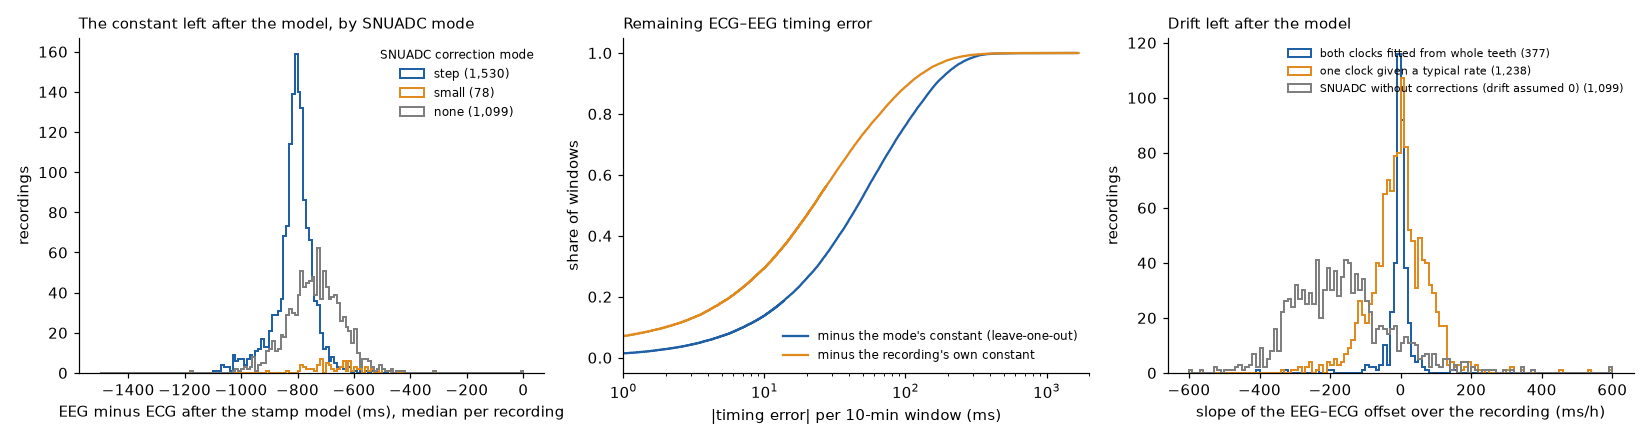
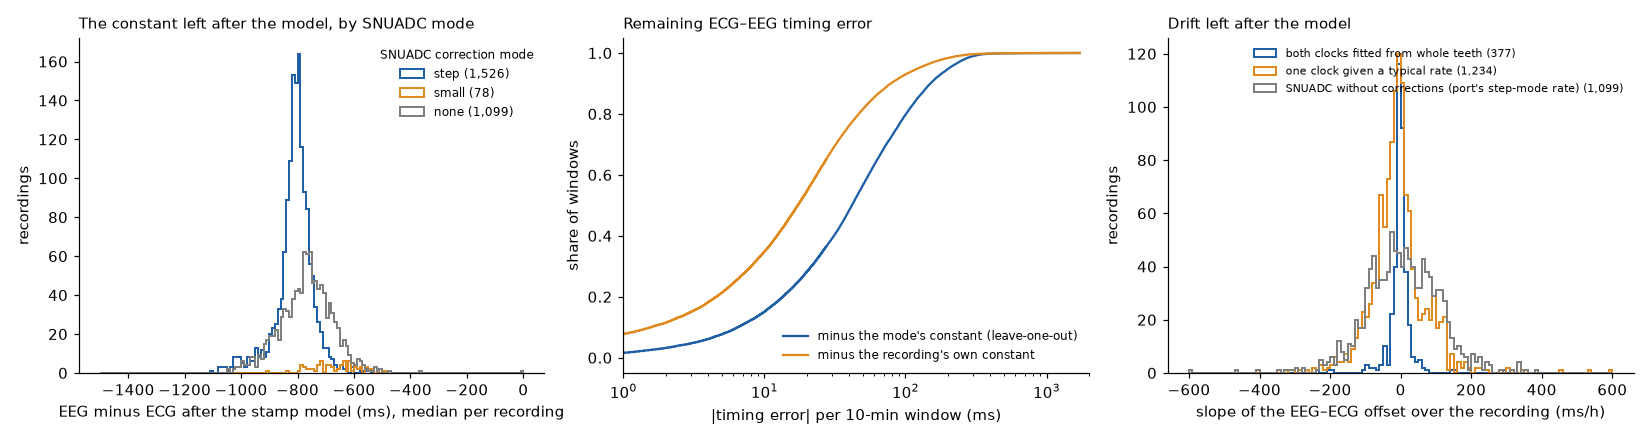
Worked examples (PPV by breath, regression with rounding), data and licence page, release build, model3 results
New example pages: ppv-by-breath (the Primus sits a median 1.8 s off the SNUADC; alignment changes half of all breaths' PPV but not recordings' medians) and regression-with-rounding (draft), with figures and references (Rubin, Cole, Carroll, KDIGO, Michard).
New page Data and licence (VitalDB CC BY 4.0; atlas text and figures CC BY 4.0; code MIT), linked from the About menu, the home page, the footer and Contributing.
Engine: --release flag for the public build (repositories that are not public are shown as not yet released, without links), with a test.
SNUADC stamp sawtooth study: model2 and model3 results (recordings without a SNUADC or BIS correction given their port's rate), updated figure, and why a per-recording rate cannot come from the stamps.

Note: commit 341f0cd also included the full-release burst validation (snuadc-stamp-sawtooth study, burst-validation-full figure), the correction-schedule link, clock and continuity updates, the recording-pauses 5-hour timer, and the BIS/SNUADC parameters moved to full-release values (bis-rate 25 ppm, snuadc-step-rate −63 ppm, snuadc-step-period 2.08 h).

diff --git a/metrology_atlas/site.py b/metrology_atlas/site.py
@@ -117,7 +117,8 @@ class Site:
         for name, paths in groups.items():
             sw = self.ds.get("software", name) or {}
             files = ", ".join(self.code_link(f"{name}/{p}") for p in paths if p)
-            where = "" if sw.get("repo") else " (not published)"
+            where = "" if sw.get("repo") else (" (not yet released)" if sw.get("visibility") == "not yet released"
+                                               else " (not published)")
             out.append(f"- **{self.a('software', name)}**{where}" + (f": {files}" if files else ""))
         return "\n".join(out)
 
@@ -1017,6 +1018,9 @@ class Site:
         if w.get("visibility") == "private":
             note = ('!!! info "Private repository"\n    Links into this repository work only for people who have been '
                     "given access to it.\n\n")
+        elif w.get("visibility") == "not yet released":
+            note = ('!!! info "Not yet released"\n    This repository will be made public later; until then its '
+                    "paths are shown, not linked.\n\n")
         elif not w.get("repo"):
             note = ('!!! info "Not published"\n    This code is kept on the analysis machine; paths are shown, '
                     "not linked.\n\n")
@@ -1041,7 +1045,8 @@ class Site:
         mentions = [m.split(":", 1) for m in r.get("mentioned_in") or []]
         mentions = "\n".join(f"- {KINDS[k].title[:-1] if KINDS[k].title.endswith('s') else KINDS[k].title}: "
                              f"{self.a(k, x)}" for k, x in sorted(mentions, key=lambda m: (m[0], m[1])))
-        repo = f"[{w['repo'].removeprefix('https://')}]({w['repo']})" if w.get("repo") else "not published"
+        repo = f"[{w['repo'].removeprefix('https://')}]({w['repo']})" if w.get("repo") else (
+            "not yet released" if w.get("visibility") == "not yet released" else "not published")
         body = (self.section("What it is", self.prose(w.get("description")))
                 + self.section("Its part in the atlas", self.prose(w.get("role")))
                 + self.section("Install", self.prose(w.get("install")))
@@ -1161,6 +1166,9 @@ class Site:
                     + "\n".join(f"- {self.ds.get('reference', r)['citation']}"
                                  + (f" doi:[{self.ds.get('reference', r)['doi']}](https://doi.org/{self.ds.get('reference', r)['doi']})"
                                     if self.ds.get('reference', r).get('doi') else "") for r in m["references"]) + "\n\n")
+            if any(pg["id"] == "data-and-licence" for pg in m.get("pages") or []):
+                out += ("The data's licence, what the atlas contains and how the atlas may be reused are on "
+                        "[Data and licence](data-and-licence.md).\n\n")
         heads = sorted(p for p, v in self.ds.items["parameter"].items() if v.get("headline"))
         if heads:
             out += "## Key numbers\n\n" + self.params_table(heads) + "\n"

diff --git a/metrology_atlas/__main__.py b/metrology_atlas/__main__.py
@@ -3,6 +3,7 @@
     python -m metrology_atlas check datasets/vitaldb
     python -m metrology_atlas json  datasets/vitaldb --out build/vitaldb.metrology.json
     python -m metrology_atlas site  datasets/vitaldb --out build/vitaldb      (then: zensical build in that folder)
+    add --release to json/site for the public build: links into repositories that are not public are left out
 """
 
 from __future__ import annotations
@@ -37,6 +38,9 @@ def main(argv: list[str] | None = None) -> int:
         p.add_argument("dataset")
         if name not in ("check", "todo"):
             p.add_argument("--out", required=True)
+        if name in ("json", "site"):
+            p.add_argument("--release", action="store_true",
+                           help="public build: software that is not public is shown as not yet released, unlinked")
     a = ap.parse_args(argv)
     try:
         ds = load(a.dataset)
@@ -45,6 +49,11 @@ def main(argv: list[str] | None = None) -> int:
         return 1
     for w in ds.warnings:
         print(f"warning: {w}", file=sys.stderr)
+    if getattr(a, "release", False):
+        for w in ds.items.get("software", {}).values():
+            if w.get("visibility") in ("private", "unpublished"):
+                w.pop("repo", None)
+                w["visibility"] = "not yet released"
     counts = ", ".join(f"{len(v)} {k}" for k, v in ds.items.items() if v)
     if a.cmd == "check":
         print(f"ok: {counts}")

diff --git a/tests/test_release.py b/tests/test_release.py
@@ -1,0 +1,15 @@
+"""The --release build leaves out links into repositories that are not public."""
+from pathlib import Path
+
+from metrology_atlas.__main__ import main
+
+DS = Path(__file__).resolve().parents[1] / "datasets" / "vitaldb"
+
+
+def test_release_build_has_no_private_links(tmp_path):
+    assert main(["site", str(DS), "--out", str(tmp_path / "rel"), "--release"]) == 0
+    docs = tmp_path / "rel" / "docs"
+    text = "".join(p.read_text(encoding="utf-8") for p in docs.rglob("*.md"))
+    for repo in ("meshlab/physiosync", "meshlab/vitaldb-bench", "meshlab/lineaccess", "meshlab/vitaldb-resolution"):
+        assert f"github.com/{repo}" not in text
+    assert "not yet released" in text

diff --git a/datasets/vitaldb/pages/data-and-licence.md b/datasets/vitaldb/pages/data-and-licence.md
@@ -1,0 +1,57 @@
+# Data and licence
+
+This atlas describes a public dataset, and is published under open licences. This page says what the data are and
+under what terms they are shared, what the atlas does and does not contain, and how the atlas itself may be reused.
+
+## The data: VitalDB
+
+The atlas describes **VitalDB version 1.0.0** on PhysioNet: high-resolution waveforms, numerics and clinical
+information from 6,388 surgical patients at Seoul National University Hospital
+([[reference:lee2022vitaldb-physionet]]; described in [[reference:lee2022vitaldb]]).
+
+- **Licence:** VitalDB is shared under the
+  [Creative Commons Attribution 4.0 International licence](https://creativecommons.org/licenses/by/4.0/)
+  (CC BY 4.0). Its files are open access on [PhysioNet](https://physionet.org/content/vitaldb/1.0.0/): there is no
+  data use agreement and no credentialing.
+- **Copyright** in the data stays with VitalDB's authors. Everything in this atlas that is derived from the data
+  (numbers, figures, models, corrections) is shared under the same licence, CC BY 4.0.
+- **What the atlas changes.** The atlas does not alter the data. It measures them, and proposes corrections: time
+  stamps re-modelled against the recorder's clock, and some scale factors corrected (each listed with its "Corrected
+  to" value on the device's page). Where a result here differs from VitalDB's documentation, the atlas says so on
+  the page concerned; VitalDB's own release and documentation remain the reference.
+- **What the atlas does not contain.** No recording, waveform file or per-case table is redistributed here.
+  Results are aggregates and figures; a case is named only when it is the point of an example (see
+  [Contributing](contributing.md)). To work with the data, download them from PhysioNet under their terms.
+
+### Citing the data
+
+If you use VitalDB, or results from this atlas that are derived from it, cite:
+
+- [[reference:lee2022vitaldb-physionet]]
+- [[reference:lee2022vitaldb]]
+- [[reference:pollard2026physionet]]
+
+## This atlas
+
+| Part | Licence |
+|---|---|
+| Text, figures and the machine-readable atlas file | [CC BY 4.0](https://creativecommons.org/licenses/by/4.0/) |
+| The atlas engine and analysis code ([[software:metrology-atlas]], [[software:vitaldb-bench]] and the others listed on [Contributing](contributing.md)) | MIT, unless the repository says otherwise |
+| Results derived from VitalDB | CC BY 4.0, as above, with VitalDB's citations |
+
+CC BY 4.0 lets you copy, adapt and build on the atlas for any purpose, including commercially, provided you give
+credit, link to the licence, and say what you changed. Please cite the atlas and the data together; a permanent
+citation for the atlas (with a DOI) will be given here once a version is archived.
+
+## No warranty, and not for clinical use
+
+The atlas is a research resource. It is provided as is, without warranty of any kind, under the terms of its
+licences. Nothing in it is advice for the care of any patient, and it has not been reviewed by the makers of the
+devices it describes. Each number states how it is known (measured, derived, estimated or assumed) and from which
+study; check those before relying on one.
+
+## Names of devices and software
+
+Device and product names (such as the BIS monitor, the Primus anaesthesia workstation and the CardioQ monitor) are
+used only to say which equipment made a recording; they belong to their owners. The atlas is an independent work,
+not affiliated with or endorsed by the VitalDB team, PhysioNet or any manufacturer.

diff --git a/datasets/vitaldb/pages/contributing.md b/datasets/vitaldb/pages/contributing.md
@@ -7,7 +7,7 @@ goes, the rules that apply everywhere, and the steps for the common cases.
 
 | You want to change | Repository | Licence |
 |---|---|---|
-| A page of this atlas: a variable, clock, study, observation, method ... | [[software:metrology-atlas]] (`datasets/vitaldb/`) | MIT |
+| A page of this atlas: a variable, clock, study, observation, method ... | [[software:metrology-atlas]] (`datasets/vitaldb/`) | CC BY 4.0 (text and figures); MIT (engine) |
 | A value model: rounding, heaping, a charted time | [[software:vitaldb-resolution]] | MIT |
 | An analysis script, the clock model, corrected times, builds, labels | [[software:vitaldb-bench]] | MIT |
 | AtriumDB builds and labels | [[software:vitaldb-bench-atriumdb]] | GPL-3.0-or-later |
@@ -36,7 +36,8 @@ no access is needed for that.
   Never state a number without its status and where it came from.
 - **History is kept, not overwritten.** When a result changes, the old study or observation is marked superseded,
   and the new one says what it supersedes.
-- Contributions are made under the repository's licence.
+- Contributions are made under the repository's licence; atlas text and figures are CC BY 4.0 (see
+  [Data and licence](data-and-licence.md)).
 
 ## Correcting or extending an atlas page
 
